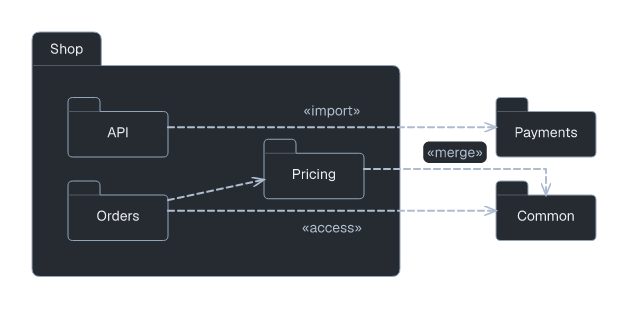
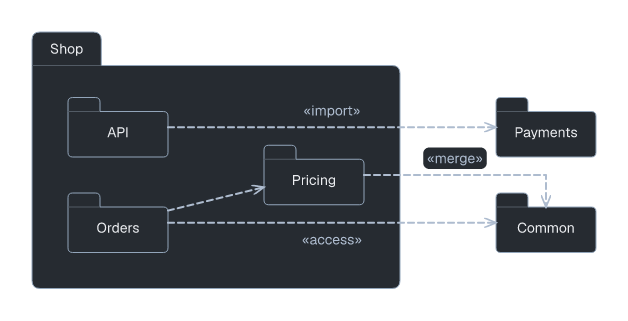
Add breathing room below upper package row

diff --git a/src/geometry/constraints.rs b/src/geometry/constraints.rs
@@ -442,10 +442,18 @@ pub fn place(
                     && ys[b] < ys[a] + boxes[a].height - 1e-6
             });
         if let Some((a, b)) = collision {
+            let automatic_gap = if diagram.settings.diagram_type
+                == crate::syntax::DiagramType::Package
+                && diagram.layout.is_empty()
+            {
+                36.0
+            } else {
+                24.0
+            };
             let candidate = Minimum {
                 a,
                 b,
-                distance: boxes[a].height + 24.0,
+                distance: boxes[a].height + automatic_gap,
                 line: boxes[b].line,
             };
             y.push(candidate);

diff --git a/tests/package_diagram.rs b/tests/package_diagram.rs
@@ -64,6 +64,14 @@ fn architecture_dependencies_route_without_changing_original_node_layout() {
         let orders = node("Shop.Orders");
         let payments = node("Payments");
         let common = node("Common");
+        assert!(
+            orders.y >= api.y + api.height + 36.0 - 1e-6,
+            "{theme}: keep breathing room below API"
+        );
+        assert!(
+            common.y >= payments.y + payments.height + 36.0 - 1e-6,
+            "{theme}: keep breathing room below Payments"
+        );
         let import = &routes[1].points;
         let access = &routes[2].points;
         let merge = &routes[3].points;
